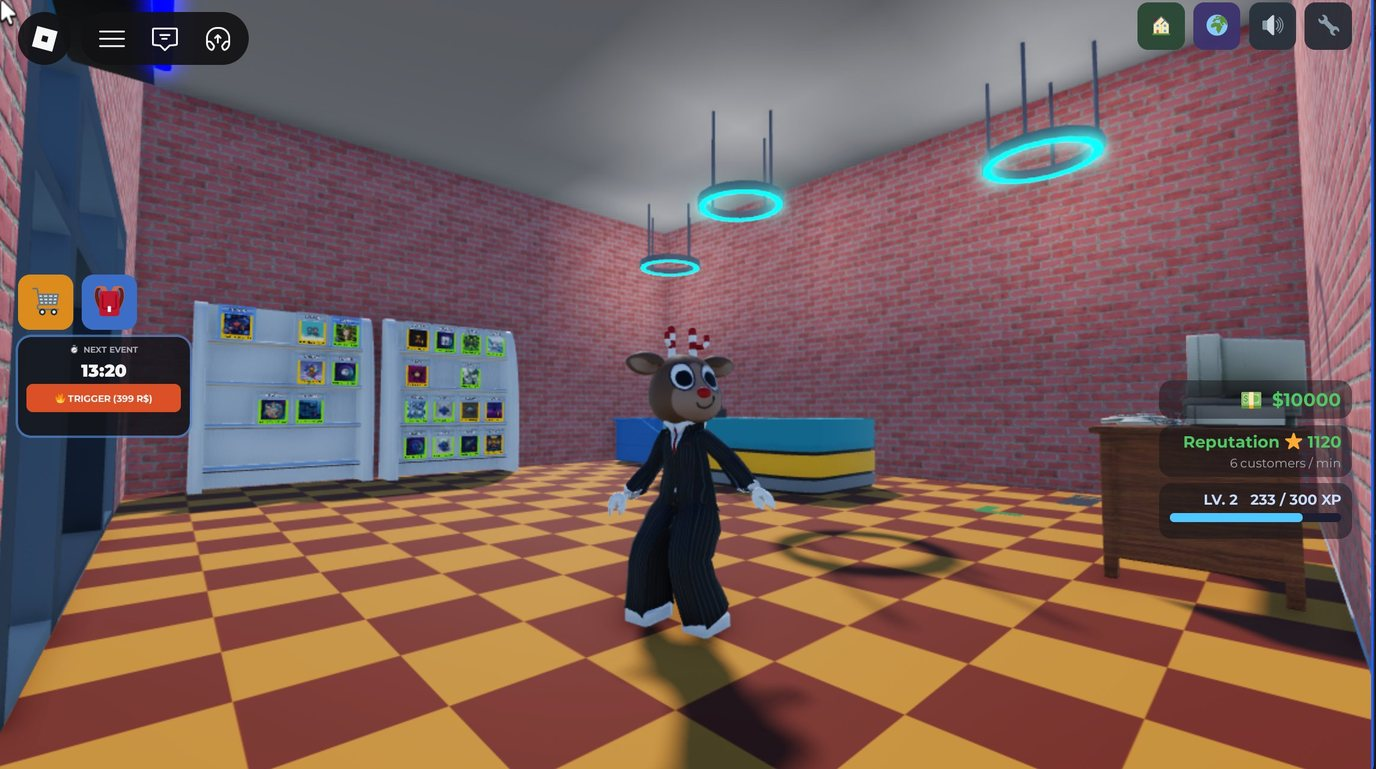
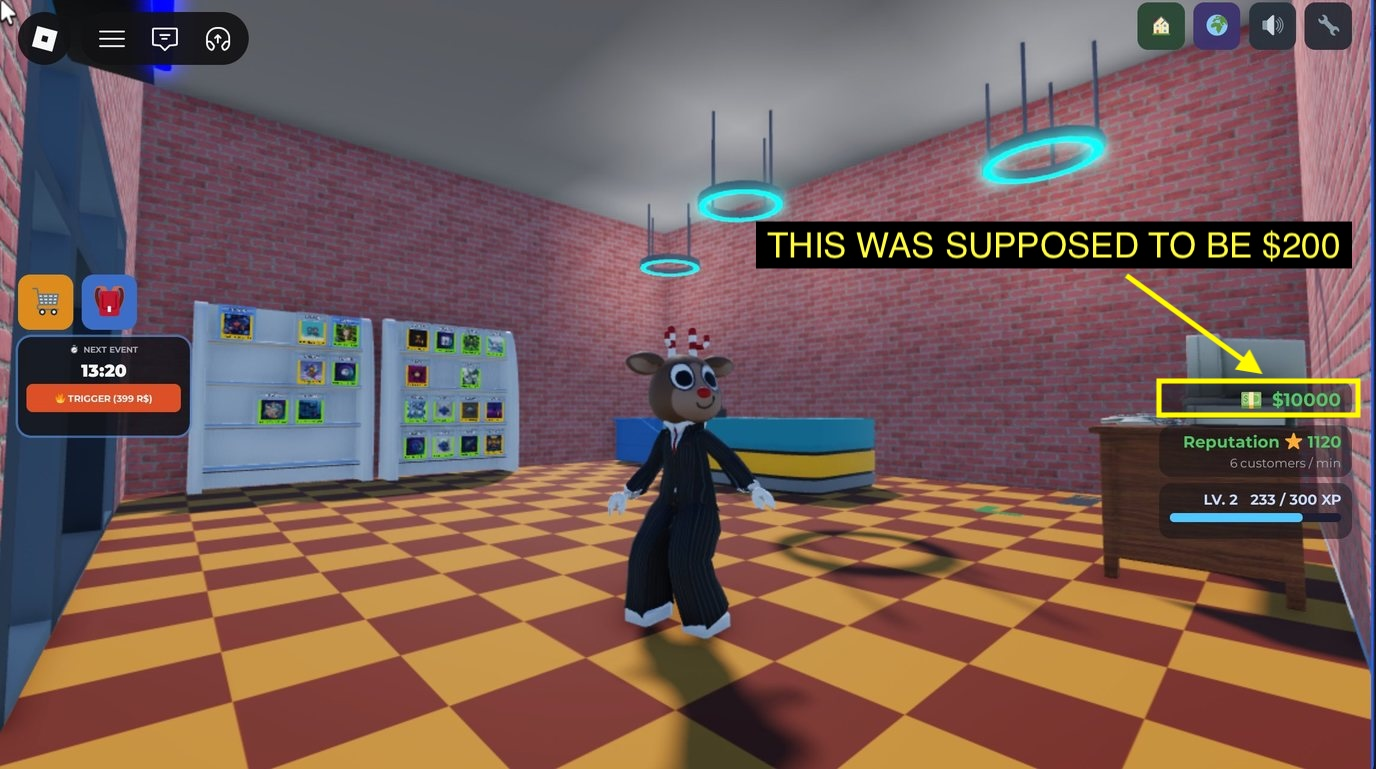
Update first post content and two images

Changed region(s): [[0.5312, 0.2809, 1.0, 0.4369], [0.8438, 0.4369, 1.0, 0.5618], [0.8125, 0.4993, 0.8438, 0.5306]]

diff --git a/src/content/blog/two-games-four-months-66-cents.md b/src/content/blog/two-games-four-months-66-cents.md
@@ -49,13 +49,11 @@ When I decided to build solo with AI, working on games was the natural next step
 1. **The user base.** Roblox has 132 million daily users, and they're more open to trying new games because Roblox doesn't require players to install anything. They click play and the game runs in the Roblox client on any platform (PC, mobile, console). Being able to actually meet your users is a huge advantage. A lot of games and apps die without ever meeting one in the red ocean of software, even more so now that vibe coding became a thing.
 2. **The publishing pipeline.** Roblox handles publishing, ad delivery, server management, and analytics. I could ship an update whenever I wanted. No review process, no paperwork, no waiting on anyone. The feedback loop with players is usually short too. Push an update, and the analytics start moving the same hour. I can also join my own game, watch how players actually play, and chat with them in-game.
 
-## The plan
+## The plan: one game a month, killed if it fails
 
 One month per game. Ship. If it doesn't retain, kill it. Move to the next one.
 
 Five years ago I had shipped multiple Roblox games in a similar window with a small team. With AI doing the work multiple people used to do, the same one-month window felt right even working alone. Big studios can't iterate this way (too many people, too much process, too much already shipped). A solo developer can. Agility was the only real advantage I had, so I wanted to leverage it.
-
-Also, from experience in game development, I knew that the more you work on something, the harder it gets to cut it. A one-month limit was how I planned to keep myself honest later, when the data came back. Cutting anything always hurts, but minimizing the blood spill was the plan.
 
 ## Game 1: Yeet Arena
 
@@ -64,7 +62,7 @@ Also, from experience in game development, I knew that the more you work on some
   <figcaption>About a minute of Yeet Arena: rolling a snowball, launching it, knocking other players off the platform</figcaption>
 </figure>
 
-### Picking it
+### Picking a fast, familiar idea
 
 For the first game, the goal was speed, not novelty. I wanted to validate that working solo with AI on Roblox was possible at all. I went to the Roblox top charts and looked for something I could build solo in a month. I narrowed to three criteria:
 
@@ -74,7 +72,7 @@ For the first game, the goal was speed, not novelty. I wanted to validate that w
 
 I combined two games and landed on Yeet Arena. The first inspiration was [*Knockout!*](https://www.roblox.com/games/136764190843219/Knockout), a Roblox last-man-standing round-based game where penguins on a platform aim and fire themselves at each other. The second was a small snowball game on [itch.io](https://itch.io) (an indie game marketplace) where you roll a snowball that grows as it picks up snow, then fire it at people. In Yeet Arena, you roll your snowball larger by pushing it on the ground, then launch it at other players to knock them off the platform. Last one standing wins.
 
-### Launching it
+### Launch day and the ad campaign
 
 Building it was its own kind of war. Connecting Cursor to the Roblox Studio workflow took longer than I expected. The information I needed was scattered, half-outdated, or just not written down anywhere I could find. Thank god for the [Rojo](https://rojo.space/) plugin, which is what makes the connection possible at all. There's a separate post coming on what I eventually figured out about the workflow. There's another one on multiplayer QA, which turned out to be its own particular nightmare when you're one person trying to test a game built for many.
 
@@ -87,7 +85,7 @@ I launched Yeet Arena on March 10, 2026, about a month after I left my job.
 
 A note on ads before the numbers. Roblox has a built-in advertising system that's straightforward to use: set targeting, set a budget, and it serves ads inside the Roblox client. Without ads, a new game is almost impossible to discover (there are too many). So I turned ads on right after launch. I wasn't nervous about the money. What I felt was excitement. Real players were about to play my game. I wanted to see how they moved through it, what they did first, what they ignored. The ad spend was the cost of meeting them.
 
-### The numbers
+### The numbers: a spike and low retention
 
 - **Cumulative plays:** 24,300
 - **Peak DAU:** 6,568 on March 14 (the first weekend after launch)
@@ -134,7 +132,7 @@ I learned how Roblox publishing works. I learned how to ship a Roblox game with 
   <figcaption>Game Rental Simulator: run the store, rent out cartridges, restock the shelves.</figcaption>
 </figure>
 
-### Picking it
+### Picking a game based on market data
 
 For the second game I changed the question. Game 1 was about *can I ship.* Game 2 was about *how do I pick something players would actually like.*
 
@@ -149,9 +147,9 @@ I picked a game cartridge rental concept, inspired by [*Retro Rewind*](https://s
   <figcaption>About a minute of Game Rental Simulator: renting cartridges and restocking the shelves</figcaption>
 </figure>
 
-### Launching it
+### Launch, and a $10,000 economy bug
 
-It took two months instead of one. I gave myself a week to explore new AI tools and trends, then spent another two weeks on scope creep. Working with AI encourages scope creep. It keeps offering, *shall I add this? shall I refine that?* By six weeks in, I sat down with my feature list and started crossing things off. Nothing more. Ship.
+It took two months instead of one. I gave myself a week to explore new AI tools and trends, then spent another two weeks on [scope creep](https://en.wikipedia.org/wiki/Scope_creep). Working with AI encourages scope creep. It keeps offering, *shall I add this? shall I refine that?* By six weeks in, I sat down with my feature list and started crossing things off. Nothing more. Ship.
 
 The launch itself didn't go cleanly. The day I shipped, I joined my own game on mobile to see how it ran. The starting cash was wrong. I'd meant to give players 200 to start. They were starting with 10,000. I'd been sure I had this fixed, but I hadn't. The whole economy was broken on the spot. With that much cash up front, players had no reason to grind or actually run a shop.
 
@@ -164,7 +162,7 @@ I went from the couch to my desk in about four seconds. Killed the ads. Pushed a
 
 After that, finally, the launch ran clean (-ish. It had a lot of bugs that I'll write about in detail in later posts).
 
-### The numbers
+### The numbers: less traffic, better signals
 
 - **Cumulative plays:** 4,107
 - **Typical DAU:** ~200
@@ -219,7 +217,7 @@ Compared to the first game: about one-sixth the traffic, but more than double th
 
 The biggest difference: two actual people decided to spend money in Game Rental. Yeet Arena had zero paying users in 24,300 plays. But for this game, two people felt the game was worth their money, and that is HUGE.
 
-I did eventually kill Game Rental Simulator too. 4.11% retention still wasn't enough to sustain it. The players the ads brought were slipping through my fingers like sand. After a week of watching the numbers stay flat even after critical bug fixes, I killed the ads. The question that came up afterward, and is still up, is what to do next.
+I did eventually kill Game Rental Simulator too. 4.11% retention still wasn't enough to sustain it. The players the ads brought were slipping through my fingers like sand. After a week of watching the numbers stay flat even after critical bug fixes, I killed the ads.
 
 ## What this cost
 
@@ -250,12 +248,12 @@ Revenue:
 
 A thousand dollars for sixty-six cents. I'd known I was spending money, but I hadn't actually added the column up until I sat down to write this post. The ratio was more dramatic than it felt at the time.
 
-That's the number. I don't think I need to make it bigger or smaller than it is. I shipped two games, with real players, in four months, as one person. That's the fact. The financial outcome is the financial outcome. The other things I learned in those four months I couldn't have learned by reading.
+But it's better than I expected. I didn't think I'd be making any revenue at all. I was happy that there were people who were willing to spend money in my game. The things I learned in those four months I couldn't have learned by reading.
 
-What I have now isn't money. It's the ability to take a game from idea to shipped, alone, in a month. Over four months of building solo with AI, I gained conviction and courage. The conviction that I can ship a game by myself, without a team of specialists or a marketing budget. The courage that I can go beyond my comfort zone, with AI at my back.
+What I have now isn't money. It's the ability to take a game from idea to shipped, alone, in a month. Over four months of building solo with AI, I gained conviction and courage. The conviction that I can ship a game by myself, without a team of specialists or a big marketing budget. The courage that I can go beyond my comfort zone, with AI at my back.
 
 ## What's next
 
-Upcoming posts cover the details of this journey: the AI workflow I built, what multiplayer QA looks like with one person, what working with AI-generated art was really like inside Roblox's moderation system, the pros and cons of solo development, and why I'm leaving Roblox after all of this.
+Upcoming posts cover the details of this journey: the AI workflow I built, what multiplayer QA looks like with one person, what working with AI-generated art was really like, the pros and cons of solo development, and why I'm leaving Roblox after all of this.
 
 If you're thinking about quitting your job to build solo with AI, I hope something in here helps. If what I learned the hard way helps someone else build something that works, that would be enough.
